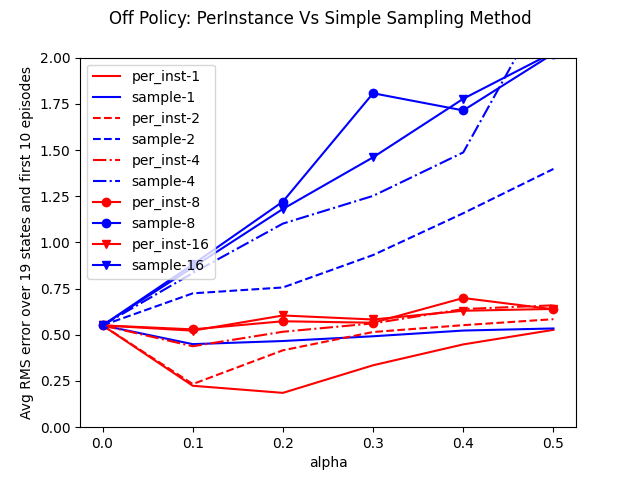
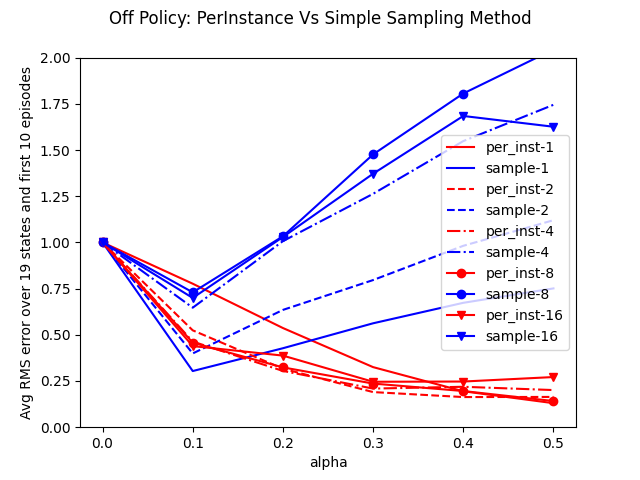
resolve error

diff --git a/rl_sutton/chapter07/exercise7_10.py b/rl_sutton/chapter07/exercise7_10.py
@@ -164,7 +164,7 @@ def main():
     policy = [0] + [1]*nodes + [0]
     total_nodes = len(policy)
 
-    dp = DP(total_nodes, offpolicy)
+    dp = DP(total_nodes, policy)
     vtrue = dp.value_prediction()
 
     alphas = np.linspace(0, 0.5, 6)
